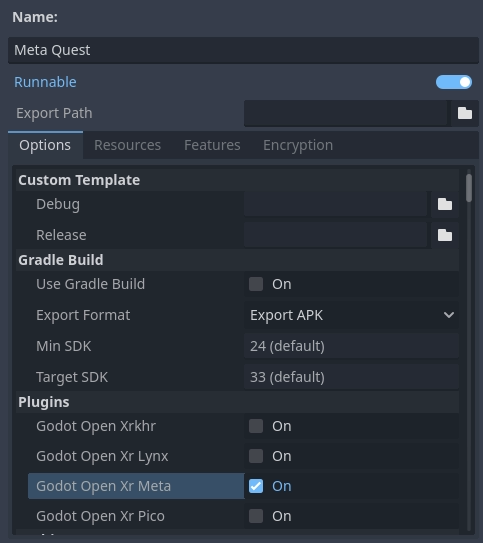
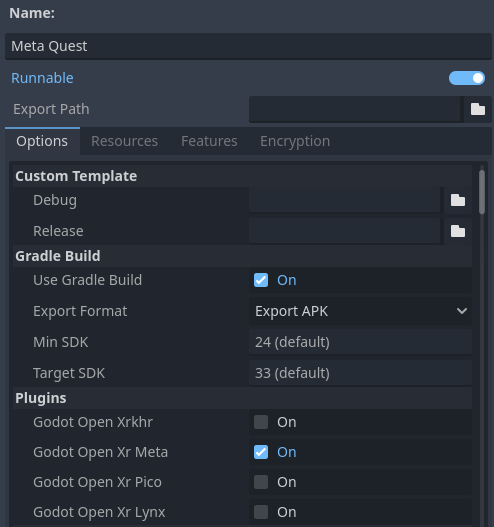
Make the steps for deploying to Meta Quest 2 (and other Android headsets) clearer

diff --git a/tutorials/xr/deploying_to_android.rst b/tutorials/xr/deploying_to_android.rst
@@ -5,16 +5,25 @@ Deploying to Android
 
 Setup
 ------------
-Most mobile headsets run on Android and OpenXR support is making its way to these platforms. There are specific requirements for deploying XR projects to Android.
-For general requirements around exporting to Android, please first read :ref:`doc_exporting_for_android`.
+Most mobile headsets run on Android and OpenXR support is making its way to these platforms.
+
+Before following the OpenXR-specific instructions here, you'll need to first setup your system to export to Android in general, including:
+
+- Installing OpenJDK 11
+- Installing Android Studio
+- Creating a debug.keystore
+- Configuring the location of the Android SDK and debug.keystore in Godot
+
+See :ref:`doc_exporting_for_android` for the full details, and return here when you've finished these steps.
+
+Custom Android build
+--------------------
 
 .. note::
     Official support for the Android platform wasn't added to the OpenXR specification initially resulting in various vendors creating custom loaders to make OpenXR available on their headsets.
     While the long term expectation is that all vendors will adopt the official OpenXR loader, for now these loaders need to be added to your project.
 
-Custom Android build
---------------------
-In order to deploy the loaders into your project you will need to setup a custom Android build.
+In order to include the vendor-specific OpenXR loader into your project, you will need to setup a custom Android build.
 
 Select **Install Android Build Template...** from the **Project** menu:
 
@@ -35,14 +44,15 @@ There is a subfolder called **plugins** containing the new files.
 
 You can find the main repository of the loader plugin `here <https://github.com/GodotVR/godot_openxr_loaders>`__.
 
-Creating the export templates
------------------------------
-You will need to setup a separate export template for each device as each device will need its own loader included.
+Creating the export presets
+---------------------------
+You will need to setup a separate export preset for each device, as each device will need its own loader included.
 
 Open **Project** and select **Export..**.
 Click on **Add..** and select **Android**.
-Next change the name of the export profile for the device you're setting this up for, say **Meta Quest**.
+Next change the name of the export preset for the device you're setting this up for, say **Meta Quest**.
 And enable **Use Gradle Build**.
+If you want to use one-click deploy (described below), ensure that **Runnable** is enabled.
 
 If the loader plugins were installed correctly you should find entries for the different headsets, select the entry for meta:
 
@@ -56,7 +66,7 @@ The hand tracking and passthrough settings here currently only work for the Meta
 .. image:: img/xr_export_features.webp
 
 
-Now you can repeat the same process for the other devices. Note that if you wish to test your game with Godots one-click deploy, you have to mark the export profile for your device as **Runnable** so Godot knows which loader to deploy.
+Now you can repeat the same process for the other devices.
 
 .. note::
     There are separate loaders for the Meta Quest, Pico and Lynx R1 headsets.
@@ -70,3 +80,14 @@ Now you can repeat the same process for the other devices. Note that if you wish
 
     Note that we are awaiting driver updates on various devices before Vulkan support will work on these.
 
+Running on your device from the Godot editor
+--------------------------------------------
+If you've setup your export settings as described above, and your headset is connected to your computer and correctly recognized, you can launch it directly from the Godot editor using :ref:`doc_one-click_deploy`:
+
+.. image:: img/android_one_click_deploy.webp
+
+For some devices on some platforms, you may need to perform some extra steps in order for your device to be recognized correctly, so be sure to check the developer documentation from your headset vendor.
+
+For example, with the Meta Quest 2, you need to enable developer mode on the headset, and if you're on Windows, you'll need to install special ADB drivers. See the `official Meta Quest developer documentation <https://developer.oculus.com/documentation/native/android/mobile-device-setup/>`_ for more details.
+
+If you're having any issues with one-click deploy, check the :ref:`Troubleshooting section <doc_one-click_deploy_troubleshooting>`.

diff --git a/tutorials/export/one-click_deploy.rst b/tutorials/export/one-click_deploy.rst
@@ -59,6 +59,8 @@ Using one-click deploy
 
 .. image:: img/remote_debug.webp
 
+.. _doc_one-click_deploy_troubleshooting:
+
 Troubleshooting
 ---------------
 
